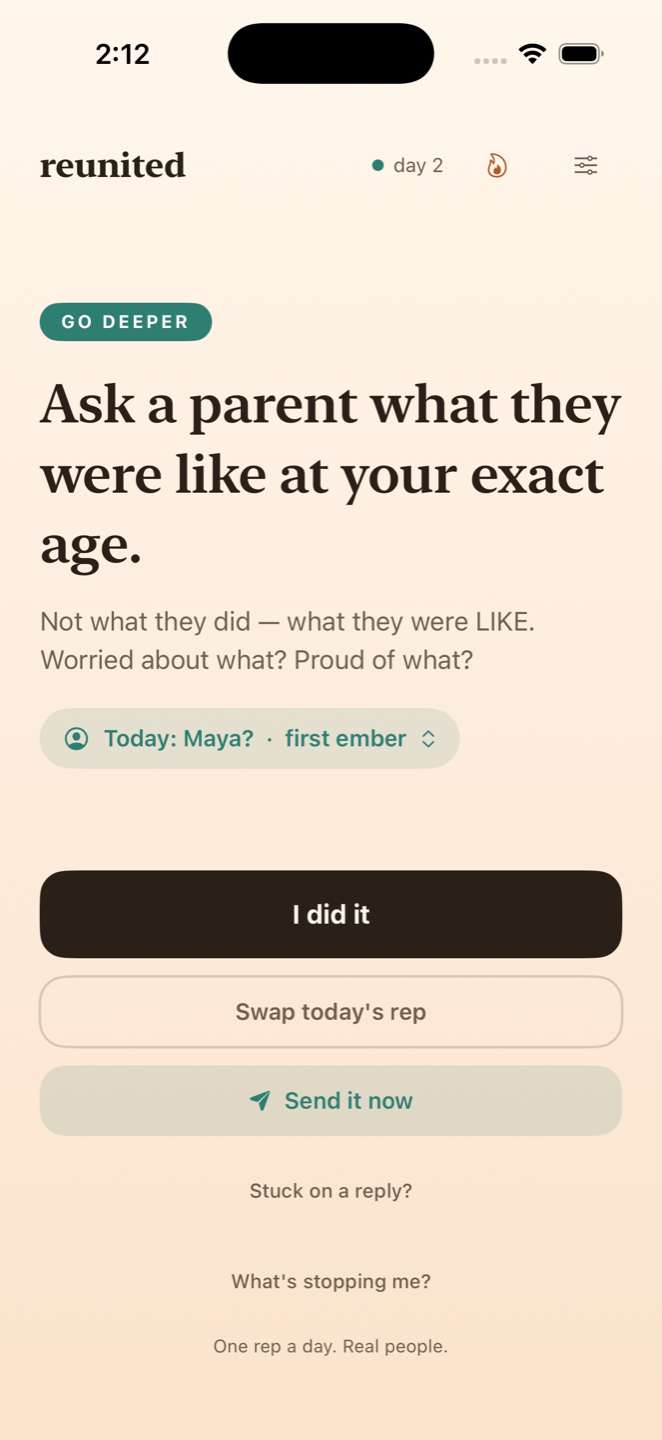
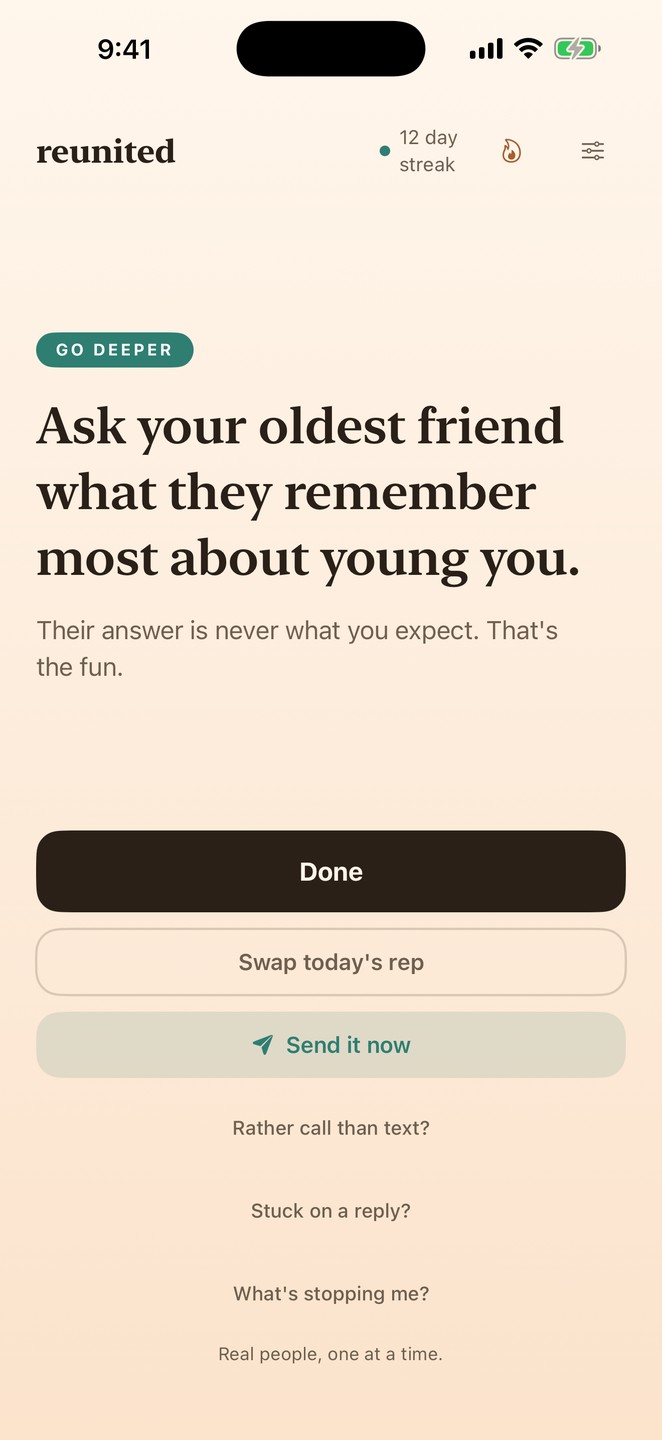
Refresh the site screenshots from the current build
The assets were three weeks old, taken before onboarding, the paywall and
the hearth changed. Recaptured today, done, embers and plan from build 3
on the simulator.

Recut the detail card from the hearth rather than the daily rep. That
section claims the app names the person for you; the rep card names
nobody, so the old crop asserted the claim without showing it. The hearth
banner naming Priya at two months quiet is where it actually happens.

Alt text on the hero and the plan shot described things neither screen
shows. Corrected both.

Reply Coach is still the old asset: Apple Intelligence does not run on the
simulator, so an honest capture needs a device.

diff --git a/index.html b/index.html
@@ -16,10 +16,15 @@
 <link rel="apple-touch-icon" href="assets/icon.png">
 <link rel="stylesheet" href="styles.css">
 <style>
-  /* Detail card: a purpose-cut asset (assets/detail-today.png), not a CSS
+  /* Detail card: a purpose-cut asset (assets/detail-named.png), not a CSS
      crop of the hero shot. The old negative-margin crop sliced every line of
      text mid-letter and buried the named chip it existed to show. If the
-     screenshot is retaken, recut the asset — do not bring the margins back. */
+     screenshot is retaken, recut the asset, and do not bring the margins back.
+
+     Recut 2026-08-29 from the hearth, not the daily rep. The section claims
+     the app names the person; the rep card names nobody, so the old crop
+     asserted the claim without showing it. The hearth banner is where the
+     naming actually happens. */
   .detail {
     width: min(340px, 86vw); margin: 0 auto;
     border-radius: 28px; overflow: hidden; box-shadow: var(--shadow);
@@ -53,7 +58,7 @@
     </div>
     <div class="phone-slot">
       <img class="phone" src="assets/shot-today.png"
-           alt="Reunited's daily rep screen: a Go Deeper prompt with a suggested person to send it to">
+           alt="Reunited's daily rep screen: a Go Deeper prompt, the day's streak, and the actions under it">
     </div>
   </div>
 </header>
@@ -142,8 +147,8 @@
     </div>
     <div class="phone-slot">
       <div class="detail">
-        <img src="assets/detail-today.png"
-             alt="The daily rep card: a Go Deeper prompt with the named suggestion, Today: Maya.">
+        <img src="assets/detail-named.png"
+             alt="The hearth naming who has gone quiet longest, Priya at two months, above the circle's embers.">
       </div>
     </div>
   </div>
@@ -193,7 +198,7 @@
   <div class="feature">
     <div class="phone-slot">
       <img class="phone" src="assets/shot-plan.png"
-           alt="Plan something: coffee spots near Montclair ranked by rating, with a drafted invite">
+           alt="Plan something: coffee spots near Montclair ranked by rating, each with a button to text the plan">
     </div>
     <div class="copy">
       <div class="num">05</div>
